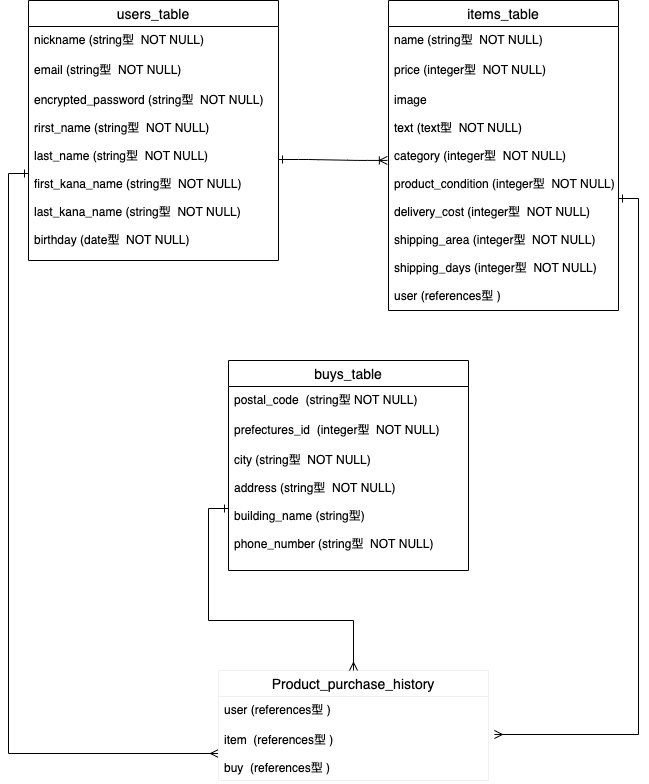
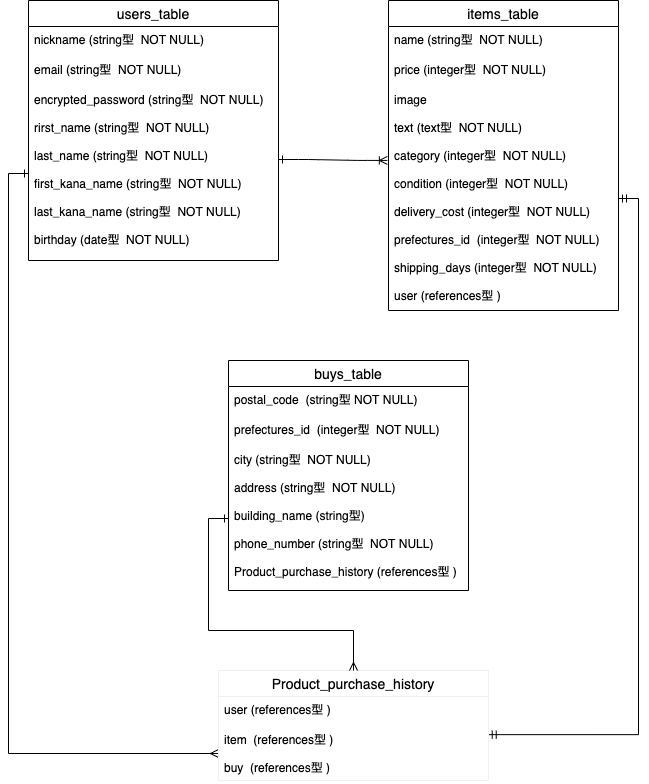
DBコードレビュー3修正

diff --git a/README.md b/README.md
@@ -16,7 +16,6 @@
 ### Association
 
 - has_many :items
-- has_many :buys
 - has_many :Product_purchase_histories 
 
 ##  items テーブル
@@ -27,33 +26,34 @@
 | price             | integer    | null: false                    |
 | text              | text       | null: false                    |
 | category          | integer    | null: false                    |
-| product_condition | integer    | null: false                    |
+| condition         | integer    | null: false                    |
 | cost              | integer    | null: false                    |
-| shipping_area     | integer    | null: false                    |
+| prefectures_id    | integer    | null: false                    |
 | shipping_days     | integer    | null: false                    |
 | user              | references | null: false, foreign_key: true |
 
 
 ### Association
 - belongs_to :user
-- has_many :product_purchase_history
+- has_one :product_purchase_history
 
 
 
 ##  buys テーブル
 
-| Column         | Type       | Options                        |
-| ---------------| -----------| ------------------------------ |
-| postal_code    | string     | null: false                    |
-| prefectures_id | integer    | null: false                    |
-| city           | string     | null: false                    |
-| address        | string     | null: false                    |
-| building_name  | string     |                                |
-| phone_number   | string     | null: false                    |
+| Column                   | Type       | Options                        |
+| ------------------------ | -----------| ------------------------------ |
+| postal_code              | string     | null: false                    |
+| prefectures_id           | integer    | null: false                    |
+| city                     | string     | null: false                    |
+| address                  | string     | null: false                    |
+| building_name            | string     |                                |
+| phone_number             | string     | null: false                    |
+| product_purchase_history | references | null: false, foreign_key: true |
 
 
 ### Association
-- has_many :Product_purchase_history
+- belongs_to :Product_purchase_history
 
 
 ##  product_purchase_histories テーブル
@@ -62,9 +62,9 @@
 | -------| -----------| ------------------------------ |
 | user   | references | null: false, foreign_key: true |
 | item   | references | null: false, foreign_key: true |
-| buy    | references | null: false, foreign_key: true |
+| buy    | references | null: false,                   |
 
 ### Association
-- belongs_to :user foreign_key: true
-- belongs_to :item foreign_key: true
-- belongs_to :buy  foreign_key: true
+- belongs_to :user 
+- belongs_to :item 
+- belongs_to :buy 
